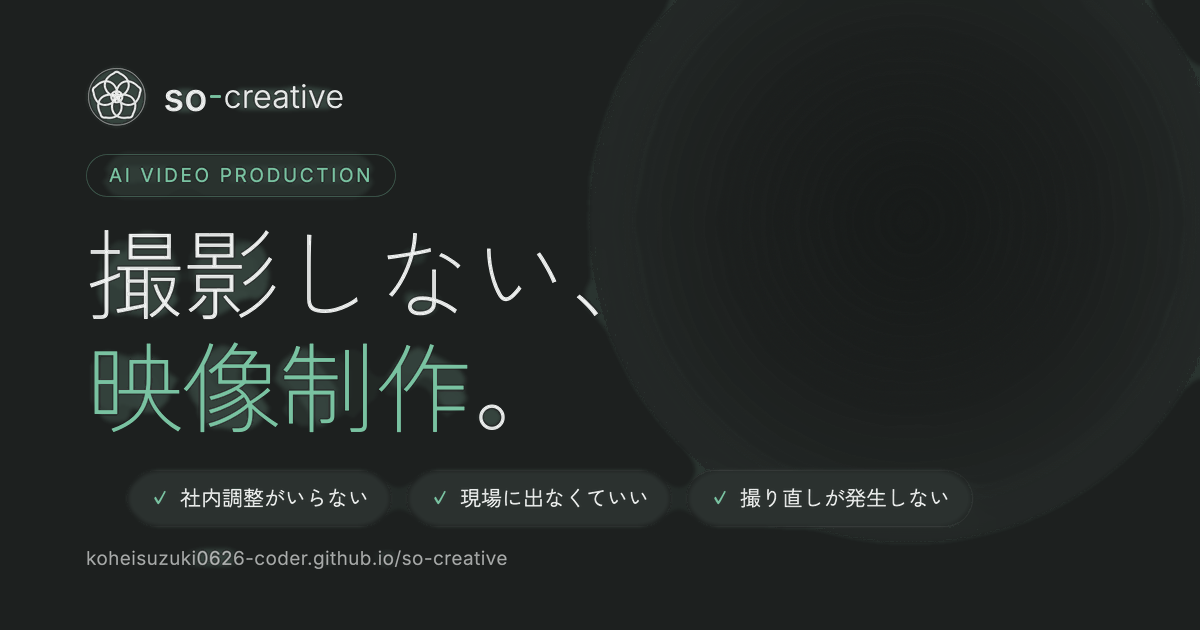
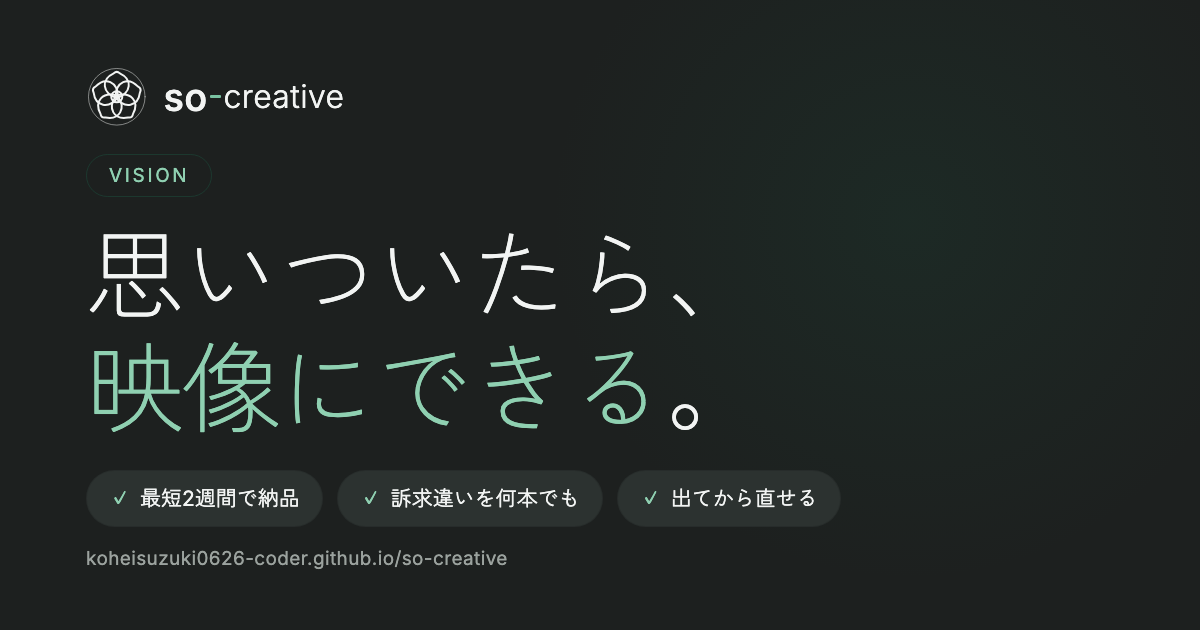
トップの導線をビジョン起点に組み替える
AI を主語にした見出しをやめ、「思いついたら、映像にできる。」から入る。
Vision 節を事業内容の前に置き、AI は手段としてその後に出す。
about・フッター・OGP も同じ言葉に揃えた。

diff --git a/index.html b/index.html
@@ -8,8 +8,8 @@
     <meta name="viewport" content="width=device-width, initial-scale=1.0">
     <title>AI動画制作 名古屋｜so-creative｜撮影なし・最短2週間</title>
     <meta name="description" content="名古屋・愛知のAI動画制作 so-creative。会社紹介・採用・商品紹介の動画をAIでつくります。撮影も出演者もスタジオも使いません。料金は尺と本数で決まり、30秒 ¥240,000〜（税込）。構成案と絵コンテをご確認いただいてから制作に入ります。">
-    <meta property="og:title" content="AI動画制作 so-creative｜名古屋・愛知｜撮影しない、映像制作。">
-    <meta property="og:description" content="撮影しない、映像制作。社内調整も現場対応も不要で、修正しても撮り直しになりません。">
+    <meta property="og:title" content="AI動画制作 so-creative｜名古屋・愛知｜思いついたら、映像にできる。">
+    <meta property="og:description" content="思いついたら、映像にできる。伝えたいことが浮かんだら、そこから始められる映像制作です。">
     <meta property="og:type" content="website">
     <link rel="canonical" href="https://koheisuzuki0626-coder.github.io/so-creative/">
     <meta property="og:url" content="https://koheisuzuki0626-coder.github.io/so-creative/">
@@ -26,7 +26,7 @@
     <link rel="preconnect" href="https://fonts.gstatic.com" crossorigin>
     <link rel="stylesheet"
           href="https://fonts.googleapis.com/css2?family=Inter:wght@200;300;400;500&family=Zen+Kaku+Gothic+New:wght@300;400;500&display=swap">
-    <link rel="stylesheet" href="assets/site.css?v=f8f199c9">
+    <link rel="stylesheet" href="assets/site.css?v=b65355bb">
     <!-- JSが動く端末にだけ出現アニメーションを掛ける。この1行が無いと、
          JSが届く前や動かないときにページが真っ白になる（2026-09-24） -->
     <script>document.documentElement.classList.add('js');</script>
@@ -214,6 +214,7 @@
         <!-- ハンバーガーを外したので、行き先はここに全部出す（9/19）。
              メニュー（つくれる動画）を開かないと辿れない項目をつくらない -->
         <div class="nav-main">
+            <a class="nav-item" href="#vision">ビジョン</a>
             <a class="nav-item" href="#service">事業内容</a>
             <a class="nav-item" href="#why">撮影しない理由</a>
             <button type="button" class="nav-item nav-trigger" id="menu-trigger"
@@ -254,6 +255,7 @@
             <div class="menu-col menu-col-links">
                 <p class="menu-head">サイト内</p>
                 <ul class="menu-links">
+                    <li><a href="#vision">ビジョン</a></li>
                     <li><a href="#service">事業内容</a></li>
                     <li><a href="#why">撮影しない理由</a></li>
                     <li><a href="#works">How to</a></li>
@@ -302,9 +304,9 @@
             </video>
         </div>
         <div class="hero-inner">
-            <p class="hero-badge">AI Video Production</p>
-            <h1 class="display">撮影しない、<br><em>映像制作</em>。</h1>
-            <p class="subhead hero-lead">AI で映像をつくるので、日程を押さえるところから始める必要がありません。<br>ご用意いただくのは、つくりたい映像のイメージだけです。</p>
+            <p class="hero-badge">Vision</p>
+            <h1 class="display">思いついたら、<br><em>映像にできる</em>。</h1>
+            <p class="subhead hero-lead">伝えたいことが浮かんだら、そこから始められる。<br>so-creative は、映像をそういうものにしていきます。</p>
             <ul class="hero-chips">
                 <li>最短2週間で納品</li>
                 <li>訴求違いを何本でも</li>
@@ -318,6 +320,18 @@
         <div class="scroll-hint">SCROLL</div>
         </div>
     </header>
+
+    <!-- 導線の起点はビジョン。AI は「だからこの作り方」の段で初めて手段として出す
+         （2026-10-30 本人の指示：AI があるからこの事業があるのではない） -->
+    <section class="section vision" id="vision">
+        <div class="wrap reveal">
+            <p class="eyebrow">Vision</p>
+            <h2 class="display">映像までの距離を、<br>なくしたい。</h2>
+            <p class="lead-line">新しい商品の魅力を伝えたい。職場の空気を見せたい。言葉だと長くなる説明を、見てわかるようにしたい。<strong>そう思いついたときに、そのまま映像にできるようにしたい。</strong>それが <span class="vision-name">so-creative</span> のやりたいことです。</p>
+            <p class="body-text measure">これまでは、思いついてから映像になるまでに長い距離がありました。1本つくるのに、出演者を探し、全員の予定を合わせ、場所と機材を押さえ、当日は現場に立ち会う。この重さがあるほど、つくると決めること自体が難しくなります。</p>
+            <p class="body-text measure"><strong>AI があるからこの事業を始めたのではありません。思いついたことを映像にしたいから、AI でつくっています。</strong></p>
+        </div>
+    </section>
 
     <section class="statement" id="service">
         <div class="wrap reveal">
@@ -344,8 +358,6 @@
                     <p>出演者の退職や異動で使えなくなることがありません。商品が変わっても、そのカットだけつくり直せます。映像を「資産として更新していく」使い方ができます。</p>
                 </li>
             </ul>
-
-            <p class="body-text measure">映像を1本つくるのに、出演者を探し、全員の予定を合わせ、場所と機材を押さえ、当日は現場に立ち会う。この重さがあるほど、本数を増やす判断はしにくくなります。AI でつくれば、同じ予算で本数を増やす、反応を見て言い方を変える、季節ごとに差し替える——そういう使い方が現実的になります。<strong>撮影を省くための手段ではなく、映像の使い方そのものを変える手段として提案しています。</strong></p>
 
             <div class="clink-row">
                 <a class="clink" href="#genres">つくれる動画を見る</a>
@@ -725,7 +737,7 @@
         <div class="footer-inner">
             <div class="f-brand">
                 <a href="#top" class="f-logo" aria-label="so-creative"><img class="logo-mark" src="assets/logo-mark-light.svg" alt="" width="100" height="100" decoding="async"><span class="logo-word">so<i class="logo-dash" aria-hidden="true"></i><span class="logo-tail">creative</span></span></a>
-                <p class="f-tagline">撮影しない、映像制作。</p>
+                <p class="f-tagline">思いついたら、映像にできる。</p>
                 <p class="f-note">AI で動画をつくる会社です。出演者の手配も、撮影日の調整も必要ありません。</p>
                 <p class="f-note">愛知県名古屋市／平日 10:00–18:00</p>
                 <a href="#contact" class="pill pill-solid f-cta">相談してみる</a>
@@ -750,6 +762,7 @@
             <nav class="f-col" aria-labelledby="f-site-h">
                 <h2 class="f-head" id="f-site-h">サイトマップ</h2>
                 <ul class="f-list">
+                    <li><a href="#vision">Vision — ビジョン</a></li>
                     <li><a href="#service">Service — 事業内容</a></li>
                     <li><a href="#why">Why AI — 撮影しない理由</a></li>
                     <li><a href="works.html">Genres — つくれる動画とサンプル</a></li>

diff --git a/about.html b/about.html
@@ -9,7 +9,7 @@
     <title>会社概要｜AI動画制作 so-creative</title>
     <meta name="description" content="AI動画制作 so-creative の会社概要。AI で映像をつくる制作会社です。撮影も出演者もスタジオも使いません。事業内容・対応領域・連絡先を掲載しています。">
     <meta property="og:title" content="so-creative について">
-    <meta property="og:description" content="撮影しない、映像制作。AI で映像をつくる so-creative の会社紹介です。">
+    <meta property="og:description" content="思いついたら、映像にできる。so-creative の会社紹介です。">
     <meta property="og:type" content="website">
     <link rel="canonical" href="https://koheisuzuki0626-coder.github.io/so-creative/about.html">
     <meta property="og:url" content="https://koheisuzuki0626-coder.github.io/so-creative/about.html">
@@ -26,7 +26,7 @@
     <link rel="preconnect" href="https://fonts.gstatic.com" crossorigin>
     <link rel="stylesheet"
           href="https://fonts.googleapis.com/css2?family=Inter:wght@200;300;400;500&family=Zen+Kaku+Gothic+New:wght@300;400;500&display=swap">
-    <link rel="stylesheet" href="assets/site.css?v=f8f199c9">
+    <link rel="stylesheet" href="assets/site.css?v=b65355bb">
     <script type="application/ld+json">
     {
       "@context": "https://schema.org",
@@ -76,8 +76,8 @@
         <section class="page-head">
             <div class="wrap reveal">
                 <p class="eyebrow">About</p>
-                <h1 class="display">つくりたい映像を、<br>一番短い道で。</h1>
-                <p class="lead-line about-lead">so-creative は、AI で映像をつくる制作会社です。撮影も、出演者も、スタジオも使いません。お客様のお話を伺い、AI に組み立てさせ、一緒に確認しながら仕上げてお渡しします。</p>
+                <h1 class="display">思いついたら、<br>映像にできる。</h1>
+                <p class="lead-line about-lead">so-creative は、伝えたいことが浮かんだら、そこから映像にできるようにする制作会社です。そのために撮影を前提にせず、AI で映像をつくっています。お客様のお話を伺い、一緒に確認しながら仕上げてお渡しします。</p>
             </div>
         </section>
 
@@ -164,7 +164,7 @@
         <div class="footer-inner">
             <div class="f-brand">
                 <a href="index.html" class="f-logo" aria-label="so-creative"><img class="logo-mark" src="assets/logo-mark-light.svg" alt="" width="100" height="100" decoding="async"><span class="logo-word">so<i class="logo-dash" aria-hidden="true"></i><span class="logo-tail">creative</span></span></a>
-                <p class="f-tagline">撮影しない、映像制作。</p>
+                <p class="f-tagline">思いついたら、映像にできる。</p>
                 <p class="f-note">AI で動画をつくる会社です。出演者の手配も、撮影日の調整も必要ありません。</p>
                 <a href="#contact" class="pill pill-solid f-cta">相談してみる</a>
             </div>
@@ -188,6 +188,7 @@
             <nav class="f-col" aria-labelledby="f-site-h">
                 <h2 class="f-head" id="f-site-h">サイトマップ</h2>
                 <ul class="f-list">
+                    <li><a href="index.html#vision">Vision — ビジョン</a></li>
                     <li><a href="index.html#service">Service — 事業内容</a></li>
                     <li><a href="works.html">Genres — つくれる動画とサンプル</a></li>
                     <li><a href="index.html#why">Why AI — 撮影しない理由</a></li>

diff --git a/privacy.html b/privacy.html
@@ -48,7 +48,7 @@
     <link rel="preconnect" href="https://fonts.gstatic.com" crossorigin>
     <link rel="stylesheet"
           href="https://fonts.googleapis.com/css2?family=Inter:wght@200;300;400;500&family=Zen+Kaku+Gothic+New:wght@300;400;500&display=swap">
-    <link rel="stylesheet" href="assets/site.css?v=f8f199c9">
+    <link rel="stylesheet" href="assets/site.css?v=b65355bb">
     <!-- JSが動く端末にだけ出現アニメーションを掛ける。この1行が無いと、
          JSが届く前や動かないときにページが真っ白になる（2026-09-24） -->
     <script>document.documentElement.classList.add('js');</script>
@@ -188,7 +188,7 @@
         <div class="footer-inner">
             <div class="f-brand">
                 <a href="index.html" class="f-logo" aria-label="so-creative"><img class="logo-mark" src="assets/logo-mark-light.svg" alt="" width="100" height="100" decoding="async"><span class="logo-word">so<i class="logo-dash" aria-hidden="true"></i><span class="logo-tail">creative</span></span></a>
-                <p class="f-tagline">撮影しない、映像制作。</p>
+                <p class="f-tagline">思いついたら、映像にできる。</p>
                 <p class="f-note">AI で動画をつくる会社です。出演者の手配も、撮影日の調整も必要ありません。</p>
                 <a href="#contact" class="pill pill-solid f-cta">相談してみる</a>
             </div>
@@ -210,6 +210,7 @@
             <nav class="f-col" aria-labelledby="f-site-h">
                 <h2 class="f-head" id="f-site-h">サイトマップ</h2>
                 <ul class="f-list">
+                    <li><a href="index.html#vision">Vision — ビジョン</a></li>
                     <li><a href="index.html#service">Service — 事業内容</a></li>
                     <li><a href="works.html">Genres — つくれる動画とサンプル</a></li>
                     <li><a href="index.html#why">Why AI — 撮影しない理由</a></li>

diff --git a/ad-video.html b/ad-video.html
@@ -26,7 +26,7 @@
     <link rel="preconnect" href="https://fonts.gstatic.com" crossorigin>
     <link rel="stylesheet"
           href="https://fonts.googleapis.com/css2?family=Inter:wght@200;300;400;500&family=Zen+Kaku+Gothic+New:wght@300;400;500&display=swap">
-    <link rel="stylesheet" href="assets/site.css?v=f8f199c9">
+    <link rel="stylesheet" href="assets/site.css?v=b65355bb">
     <script type="application/ld+json">
     {
       "@context": "https://schema.org",
@@ -249,7 +249,7 @@
         <div class="footer-inner">
             <div class="f-brand">
                 <a href="index.html" class="f-logo" aria-label="so-creative"><img class="logo-mark" src="assets/logo-mark-light.svg" alt="" width="100" height="100" decoding="async"><span class="logo-word">so<i class="logo-dash" aria-hidden="true"></i><span class="logo-tail">creative</span></span></a>
-                <p class="f-tagline">撮影しない、映像制作。</p>
+                <p class="f-tagline">思いついたら、映像にできる。</p>
                 <p class="f-note">AI で動画をつくる会社です。出演者の手配も、撮影日の調整も必要ありません。</p>
                 <a href="#contact" class="pill pill-solid f-cta">相談してみる</a>
             </div>
@@ -273,6 +273,7 @@
             <nav class="f-col" aria-labelledby="f-site-h">
                 <h2 class="f-head" id="f-site-h">サイトマップ</h2>
                 <ul class="f-list">
+                    <li><a href="index.html#vision">Vision — ビジョン</a></li>
                     <li><a href="index.html#service">Service — 事業内容</a></li>
                     <li><a href="works.html">Genres — つくれる動画とサンプル</a></li>
                     <li><a href="index.html#why">Why AI — 撮影しない理由</a></li>

diff --git a/animation-video.html b/animation-video.html
@@ -26,7 +26,7 @@
     <link rel="preconnect" href="https://fonts.gstatic.com" crossorigin>
     <link rel="stylesheet"
           href="https://fonts.googleapis.com/css2?family=Inter:wght@200;300;400;500&family=Zen+Kaku+Gothic+New:wght@300;400;500&display=swap">
-    <link rel="stylesheet" href="assets/site.css?v=f8f199c9">
+    <link rel="stylesheet" href="assets/site.css?v=b65355bb">
     <script type="application/ld+json">
     {
       "@context": "https://schema.org",
@@ -250,7 +250,7 @@
         <div class="footer-inner">
             <div class="f-brand">
                 <a href="index.html" class="f-logo" aria-label="so-creative"><img class="logo-mark" src="assets/logo-mark-light.svg" alt="" width="100" height="100" decoding="async"><span class="logo-word">so<i class="logo-dash" aria-hidden="true"></i><span class="logo-tail">creative</span></span></a>
-                <p class="f-tagline">撮影しない、映像制作。</p>
+                <p class="f-tagline">思いついたら、映像にできる。</p>
                 <p class="f-note">AI で動画をつくる会社です。出演者の手配も、撮影日の調整も必要ありません。</p>
                 <a href="#contact" class="pill pill-solid f-cta">相談してみる</a>
             </div>
@@ -274,6 +274,7 @@
             <nav class="f-col" aria-labelledby="f-site-h">
                 <h2 class="f-head" id="f-site-h">サイトマップ</h2>
                 <ul class="f-list">
+                    <li><a href="index.html#vision">Vision — ビジョン</a></li>
                     <li><a href="index.html#service">Service — 事業内容</a></li>
                     <li><a href="works.html">Genres — つくれる動画とサンプル</a></li>
                     <li><a href="index.html#why">Why AI — 撮影しない理由</a></li>

diff --git a/company-video.html b/company-video.html
@@ -26,7 +26,7 @@
     <link rel="preconnect" href="https://fonts.gstatic.com" crossorigin>
     <link rel="stylesheet"
           href="https://fonts.googleapis.com/css2?family=Inter:wght@200;300;400;500&family=Zen+Kaku+Gothic+New:wght@300;400;500&display=swap">
-    <link rel="stylesheet" href="assets/site.css?v=f8f199c9">
+    <link rel="stylesheet" href="assets/site.css?v=b65355bb">
     <script type="application/ld+json">
     {
       "@context": "https://schema.org",
@@ -249,7 +249,7 @@
         <div class="footer-inner">
             <div class="f-brand">
                 <a href="index.html" class="f-logo" aria-label="so-creative"><img class="logo-mark" src="assets/logo-mark-light.svg" alt="" width="100" height="100" decoding="async"><span class="logo-word">so<i class="logo-dash" aria-hidden="true"></i><span class="logo-tail">creative</span></span></a>
-                <p class="f-tagline">撮影しない、映像制作。</p>
+                <p class="f-tagline">思いついたら、映像にできる。</p>
                 <p class="f-note">AI で動画をつくる会社です。出演者の手配も、撮影日の調整も必要ありません。</p>
                 <a href="#contact" class="pill pill-solid f-cta">相談してみる</a>
             </div>
@@ -273,6 +273,7 @@
             <nav class="f-col" aria-labelledby="f-site-h">
                 <h2 class="f-head" id="f-site-h">サイトマップ</h2>
                 <ul class="f-list">
+                    <li><a href="index.html#vision">Vision — ビジョン</a></li>
                     <li><a href="index.html#service">Service — 事業内容</a></li>
                     <li><a href="works.html">Genres — つくれる動画とサンプル</a></li>
                     <li><a href="index.html#why">Why AI — 撮影しない理由</a></li>

diff --git a/exhibition-video.html b/exhibition-video.html
@@ -26,7 +26,7 @@
     <link rel="preconnect" href="https://fonts.gstatic.com" crossorigin>
     <link rel="stylesheet"
           href="https://fonts.googleapis.com/css2?family=Inter:wght@200;300;400;500&family=Zen+Kaku+Gothic+New:wght@300;400;500&display=swap">
-    <link rel="stylesheet" href="assets/site.css?v=f8f199c9">
+    <link rel="stylesheet" href="assets/site.css?v=b65355bb">
     <script type="application/ld+json">
     {
       "@context": "https://schema.org",
@@ -248,7 +248,7 @@
         <div class="footer-inner">
             <div class="f-brand">
                 <a href="index.html" class="f-logo" aria-label="so-creative"><img class="logo-mark" src="assets/logo-mark-light.svg" alt="" width="100" height="100" decoding="async"><span class="logo-word">so<i class="logo-dash" aria-hidden="true"></i><span class="logo-tail">creative</span></span></a>
-                <p class="f-tagline">撮影しない、映像制作。</p>
+                <p class="f-tagline">思いついたら、映像にできる。</p>
                 <p class="f-note">AI で動画をつくる会社です。出演者の手配も、撮影日の調整も必要ありません。</p>
                 <a href="#contact" class="pill pill-solid f-cta">相談してみる</a>
             </div>
@@ -272,6 +272,7 @@
             <nav class="f-col" aria-labelledby="f-site-h">
                 <h2 class="f-head" id="f-site-h">サイトマップ</h2>
                 <ul class="f-list">
+                    <li><a href="index.html#vision">Vision — ビジョン</a></li>
                     <li><a href="index.html#service">Service — 事業内容</a></li>
                     <li><a href="works.html">Genres — つくれる動画とサンプル</a></li>
                     <li><a href="index.html#why">Why AI — 撮影しない理由</a></li>

diff --git a/internal-video.html b/internal-video.html
@@ -26,7 +26,7 @@
     <link rel="preconnect" href="https://fonts.gstatic.com" crossorigin>
     <link rel="stylesheet"
           href="https://fonts.googleapis.com/css2?family=Inter:wght@200;300;400;500&family=Zen+Kaku+Gothic+New:wght@300;400;500&display=swap">
-    <link rel="stylesheet" href="assets/site.css?v=f8f199c9">
+    <link rel="stylesheet" href="assets/site.css?v=b65355bb">
     <script type="application/ld+json">
     {
       "@context": "https://schema.org",
@@ -250,7 +250,7 @@
         <div class="footer-inner">
             <div class="f-brand">
                 <a href="index.html" class="f-logo" aria-label="so-creative"><img class="logo-mark" src="assets/logo-mark-light.svg" alt="" width="100" height="100" decoding="async"><span class="logo-word">so<i class="logo-dash" aria-hidden="true"></i><span class="logo-tail">creative</span></span></a>
-                <p class="f-tagline">撮影しない、映像制作。</p>
+                <p class="f-tagline">思いついたら、映像にできる。</p>
                 <p class="f-note">AI で動画をつくる会社です。出演者の手配も、撮影日の調整も必要ありません。</p>
                 <a href="#contact" class="pill pill-solid f-cta">相談してみる</a>
             </div>
@@ -274,6 +274,7 @@
             <nav class="f-col" aria-labelledby="f-site-h">
                 <h2 class="f-head" id="f-site-h">サイトマップ</h2>
                 <ul class="f-list">
+                    <li><a href="index.html#vision">Vision — ビジョン</a></li>
                     <li><a href="index.html#service">Service — 事業内容</a></li>
                     <li><a href="works.html">Genres — つくれる動画とサンプル</a></li>
                     <li><a href="index.html#why">Why AI — 撮影しない理由</a></li>

diff --git a/music-video.html b/music-video.html
@@ -26,7 +26,7 @@
     <link rel="preconnect" href="https://fonts.gstatic.com" crossorigin>
     <link rel="stylesheet"
           href="https://fonts.googleapis.com/css2?family=Inter:wght@200;300;400;500&family=Zen+Kaku+Gothic+New:wght@300;400;500&display=swap">
-    <link rel="stylesheet" href="assets/site.css?v=f8f199c9">
+    <link rel="stylesheet" href="assets/site.css?v=b65355bb">
     <script type="application/ld+json">
     {
       "@context": "https://schema.org",
@@ -226,7 +226,7 @@
         <div class="footer-inner">
             <div class="f-brand">
                 <a href="index.html" class="f-logo" aria-label="so-creative"><img class="logo-mark" src="assets/logo-mark-light.svg" alt="" width="100" height="100" decoding="async"><span class="logo-word">so<i class="logo-dash" aria-hidden="true"></i><span class="logo-tail">creative</span></span></a>
-                <p class="f-tagline">撮影しない、映像制作。</p>
+                <p class="f-tagline">思いついたら、映像にできる。</p>
                 <p class="f-note">AI で動画をつくる会社です。出演者の手配も、撮影日の調整も必要ありません。</p>
                 <a href="#contact" class="pill pill-solid f-cta">相談してみる</a>
             </div>
@@ -250,6 +250,7 @@
             <nav class="f-col" aria-labelledby="f-site-h">
                 <h2 class="f-head" id="f-site-h">サイトマップ</h2>
                 <ul class="f-list">
+                    <li><a href="index.html#vision">Vision — ビジョン</a></li>
                     <li><a href="index.html#service">Service — 事業内容</a></li>
                     <li><a href="works.html">Genres — つくれる動画とサンプル</a></li>
                     <li><a href="index.html#why">Why AI — 撮影しない理由</a></li>

diff --git a/pricing.html b/pricing.html
@@ -26,7 +26,7 @@
     <link rel="preconnect" href="https://fonts.gstatic.com" crossorigin>
     <link rel="stylesheet"
           href="https://fonts.googleapis.com/css2?family=Inter:wght@200;300;400;500&family=Zen+Kaku+Gothic+New:wght@300;400;500&display=swap">
-    <link rel="stylesheet" href="assets/site.css?v=f8f199c9">
+    <link rel="stylesheet" href="assets/site.css?v=b65355bb">
     <script type="application/ld+json">
     {
       "@context": "https://schema.org",
@@ -264,7 +264,7 @@
         <div class="footer-inner">
             <div class="f-brand">
                 <a href="index.html" class="f-logo" aria-label="so-creative"><img class="logo-mark" src="assets/logo-mark-light.svg" alt="" width="100" height="100" decoding="async"><span class="logo-word">so<i class="logo-dash" aria-hidden="true"></i><span class="logo-tail">creative</span></span></a>
-                <p class="f-tagline">撮影しない、映像制作。</p>
+                <p class="f-tagline">思いついたら、映像にできる。</p>
                 <p class="f-note">AI で動画をつくる会社です。出演者の手配も、撮影日の調整も必要ありません。</p>
                 <a href="#contact" class="pill pill-solid f-cta">相談してみる</a>
             </div>
@@ -288,6 +288,7 @@
             <nav class="f-col" aria-labelledby="f-site-h">
                 <h2 class="f-head" id="f-site-h">サイトマップ</h2>
                 <ul class="f-list">
+                    <li><a href="index.html#vision">Vision — ビジョン</a></li>
                     <li><a href="index.html#service">Service — 事業内容</a></li>
                     <li><a href="works.html">Genres — つくれる動画とサンプル</a></li>
                     <li><a href="index.html#why">Why AI — 撮影しない理由</a></li>

diff --git a/recruit-video.html b/recruit-video.html
@@ -26,7 +26,7 @@
     <link rel="preconnect" href="https://fonts.gstatic.com" crossorigin>
     <link rel="stylesheet"
           href="https://fonts.googleapis.com/css2?family=Inter:wght@200;300;400;500&family=Zen+Kaku+Gothic+New:wght@300;400;500&display=swap">
-    <link rel="stylesheet" href="assets/site.css?v=f8f199c9">
+    <link rel="stylesheet" href="assets/site.css?v=b65355bb">
     <script type="application/ld+json">
     {
       "@context": "https://schema.org",
@@ -261,7 +261,7 @@
         <div class="footer-inner">
             <div class="f-brand">
                 <a href="index.html" class="f-logo" aria-label="so-creative"><img class="logo-mark" src="assets/logo-mark-light.svg" alt="" width="100" height="100" decoding="async"><span class="logo-word">so<i class="logo-dash" aria-hidden="true"></i><span class="logo-tail">creative</span></span></a>
-                <p class="f-tagline">撮影しない、映像制作。</p>
+                <p class="f-tagline">思いついたら、映像にできる。</p>
                 <p class="f-note">AI で動画をつくる会社です。出演者の手配も、撮影日の調整も必要ありません。</p>
                 <a href="#contact" class="pill pill-solid f-cta">相談してみる</a>
             </div>
@@ -285,6 +285,7 @@
             <nav class="f-col" aria-labelledby="f-site-h">
                 <h2 class="f-head" id="f-site-h">サイトマップ</h2>
                 <ul class="f-list">
+                    <li><a href="index.html#vision">Vision — ビジョン</a></li>
                     <li><a href="index.html#service">Service — 事業内容</a></li>
                     <li><a href="works.html">Genres — つくれる動画とサンプル</a></li>
                     <li><a href="index.html#why">Why AI — 撮影しない理由</a></li>

diff --git a/service-video.html b/service-video.html
@@ -26,7 +26,7 @@
     <link rel="preconnect" href="https://fonts.gstatic.com" crossorigin>
     <link rel="stylesheet"
           href="https://fonts.googleapis.com/css2?family=Inter:wght@200;300;400;500&family=Zen+Kaku+Gothic+New:wght@300;400;500&display=swap">
-    <link rel="stylesheet" href="assets/site.css?v=f8f199c9">
+    <link rel="stylesheet" href="assets/site.css?v=b65355bb">
     <script type="application/ld+json">
     {
       "@context": "https://schema.org",
@@ -249,7 +249,7 @@
         <div class="footer-inner">
             <div class="f-brand">
                 <a href="index.html" class="f-logo" aria-label="so-creative"><img class="logo-mark" src="assets/logo-mark-light.svg" alt="" width="100" height="100" decoding="async"><span class="logo-word">so<i class="logo-dash" aria-hidden="true"></i><span class="logo-tail">creative</span></span></a>
-                <p class="f-tagline">撮影しない、映像制作。</p>
+                <p class="f-tagline">思いついたら、映像にできる。</p>
                 <p class="f-note">AI で動画をつくる会社です。出演者の手配も、撮影日の調整も必要ありません。</p>
                 <a href="#contact" class="pill pill-solid f-cta">相談してみる</a>
             </div>
@@ -273,6 +273,7 @@
             <nav class="f-col" aria-labelledby="f-site-h">
                 <h2 class="f-head" id="f-site-h">サイトマップ</h2>
                 <ul class="f-list">
+                    <li><a href="index.html#vision">Vision — ビジョン</a></li>
                     <li><a href="index.html#service">Service — 事業内容</a></li>
                     <li><a href="works.html">Genres — つくれる動画とサンプル</a></li>
                     <li><a href="index.html#why">Why AI — 撮影しない理由</a></li>
